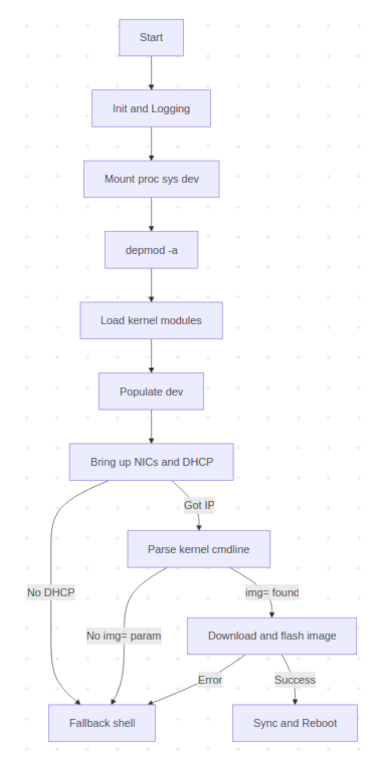
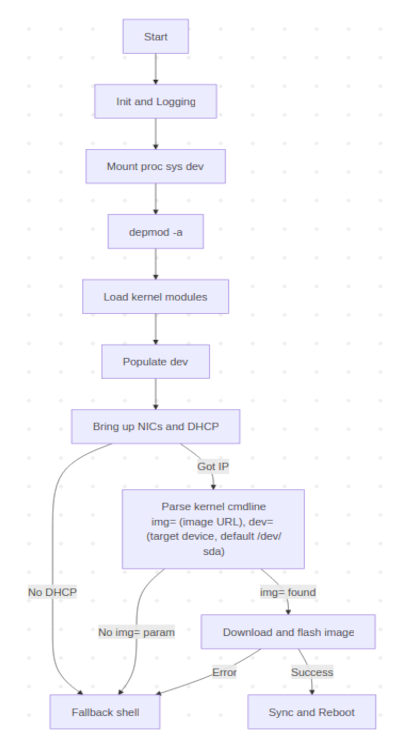
update docs

diff --git a/doc/initramfs.md b/doc/initramfs.md
@@ -6,20 +6,27 @@
 flowchart TD
     A["Baremetal Machine<br/>Firmware / BIOS"]
     B[iPXE ROM]
-    C["Kernel + Initramfs<br/>loaded into memory"]
+    C["Kernel + Initramfs + Disk Image<br/>loaded into memory"]
 
     subgraph ramdisk ["RAM Disk (initramfs as /)"]
         D1["/bin/busybox<br/>/init<br/>/etc/udhcpc<br/>/tmp"]
         D2["/proc ← virtual<br/>/sys  ← virtual<br/>/dev  ← populated at runtime"]
+        D3["/sbin/ ← blkid blockdev modprobe mount etc."]
+        D4["/lib/modules/ ← NIC, storage, virtio drivers<br/>/lib/firmware/ ← NIC and RAID firmware"]
         D1 ~~~ D2
+        D3 ~~~ D4
     end
 
-    E["/init runs<br/>sets up networking<br/>flashes the drive"]
+    E1["/init loads kernel modules<br/>NIC, storage, virtio, RAID"]
+    E2["/init sets up networking<br/>via udhcpc"]
+    E3["/init flashes disk image<br/>DISTRO.raw.gz → block device"]
     F[reboot]
 
     A --> B
-    B -->|"Downloads kernel + initramfs"| C
+    B -->|"Downloads kernel + initramfs + DISTRO.raw.gz"| C
     C -->|"Kernel mounts initramfs as /"| ramdisk
-    ramdisk --> E
-    E --> F
+    ramdisk --> E1
+    E1 --> E2
+    E2 --> E3
+    E3 --> F
 ```

diff --git a/doc/flow-diagram.md b/doc/flow-diagram.md
@@ -10,7 +10,7 @@ flowchart TD
     E[Load kernel modules]
     F[Populate dev]
     G[Bring up NICs and DHCP]
-    H[Parse kernel cmdline]
+    H["Parse kernel cmdline<br/>img= (image URL), dev= (target device, default /dev/sda)"]
     I[Download and flash image]
     J[Sync and Reboot]
     K[Fallback shell]
@@ -23,7 +23,7 @@ flowchart TD
     F --> G
     G -->|No DHCP| K
     G -->|Got IP| H
-    H -->|No img= param| K
+    H -->|"No img= param"| K
     H -->|img= found| I
     I -->|Error| K
     I -->|Success| J
